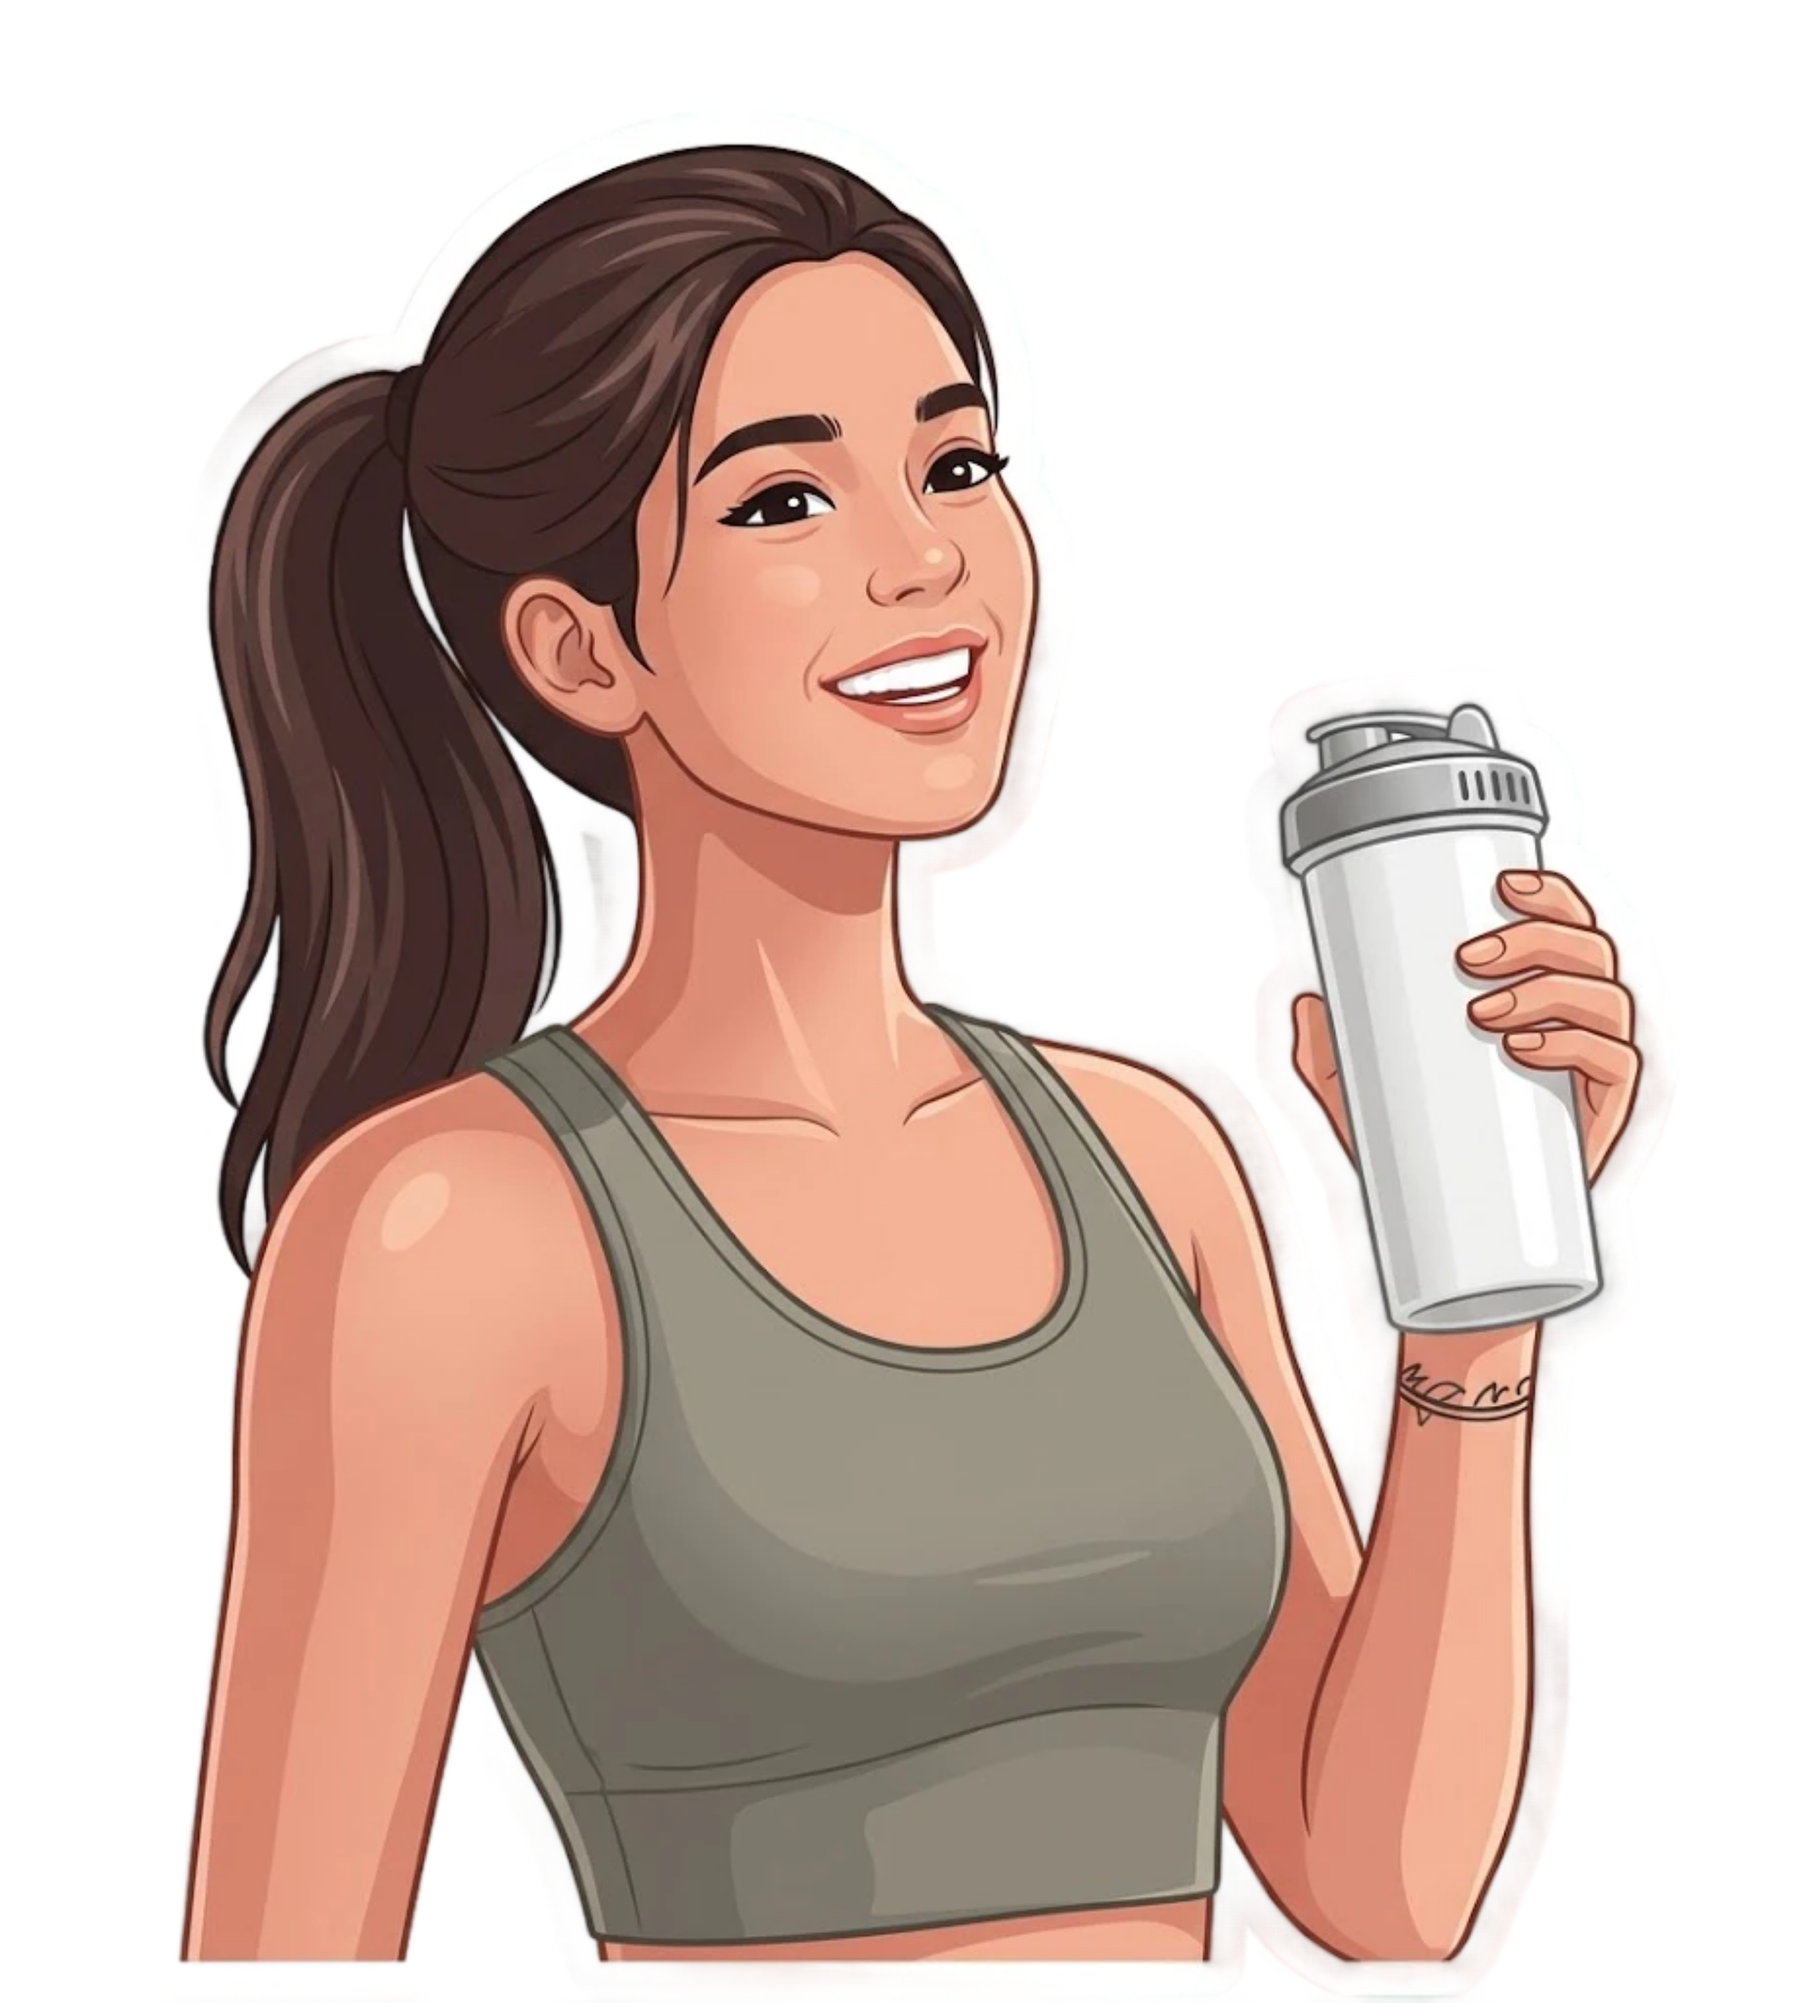
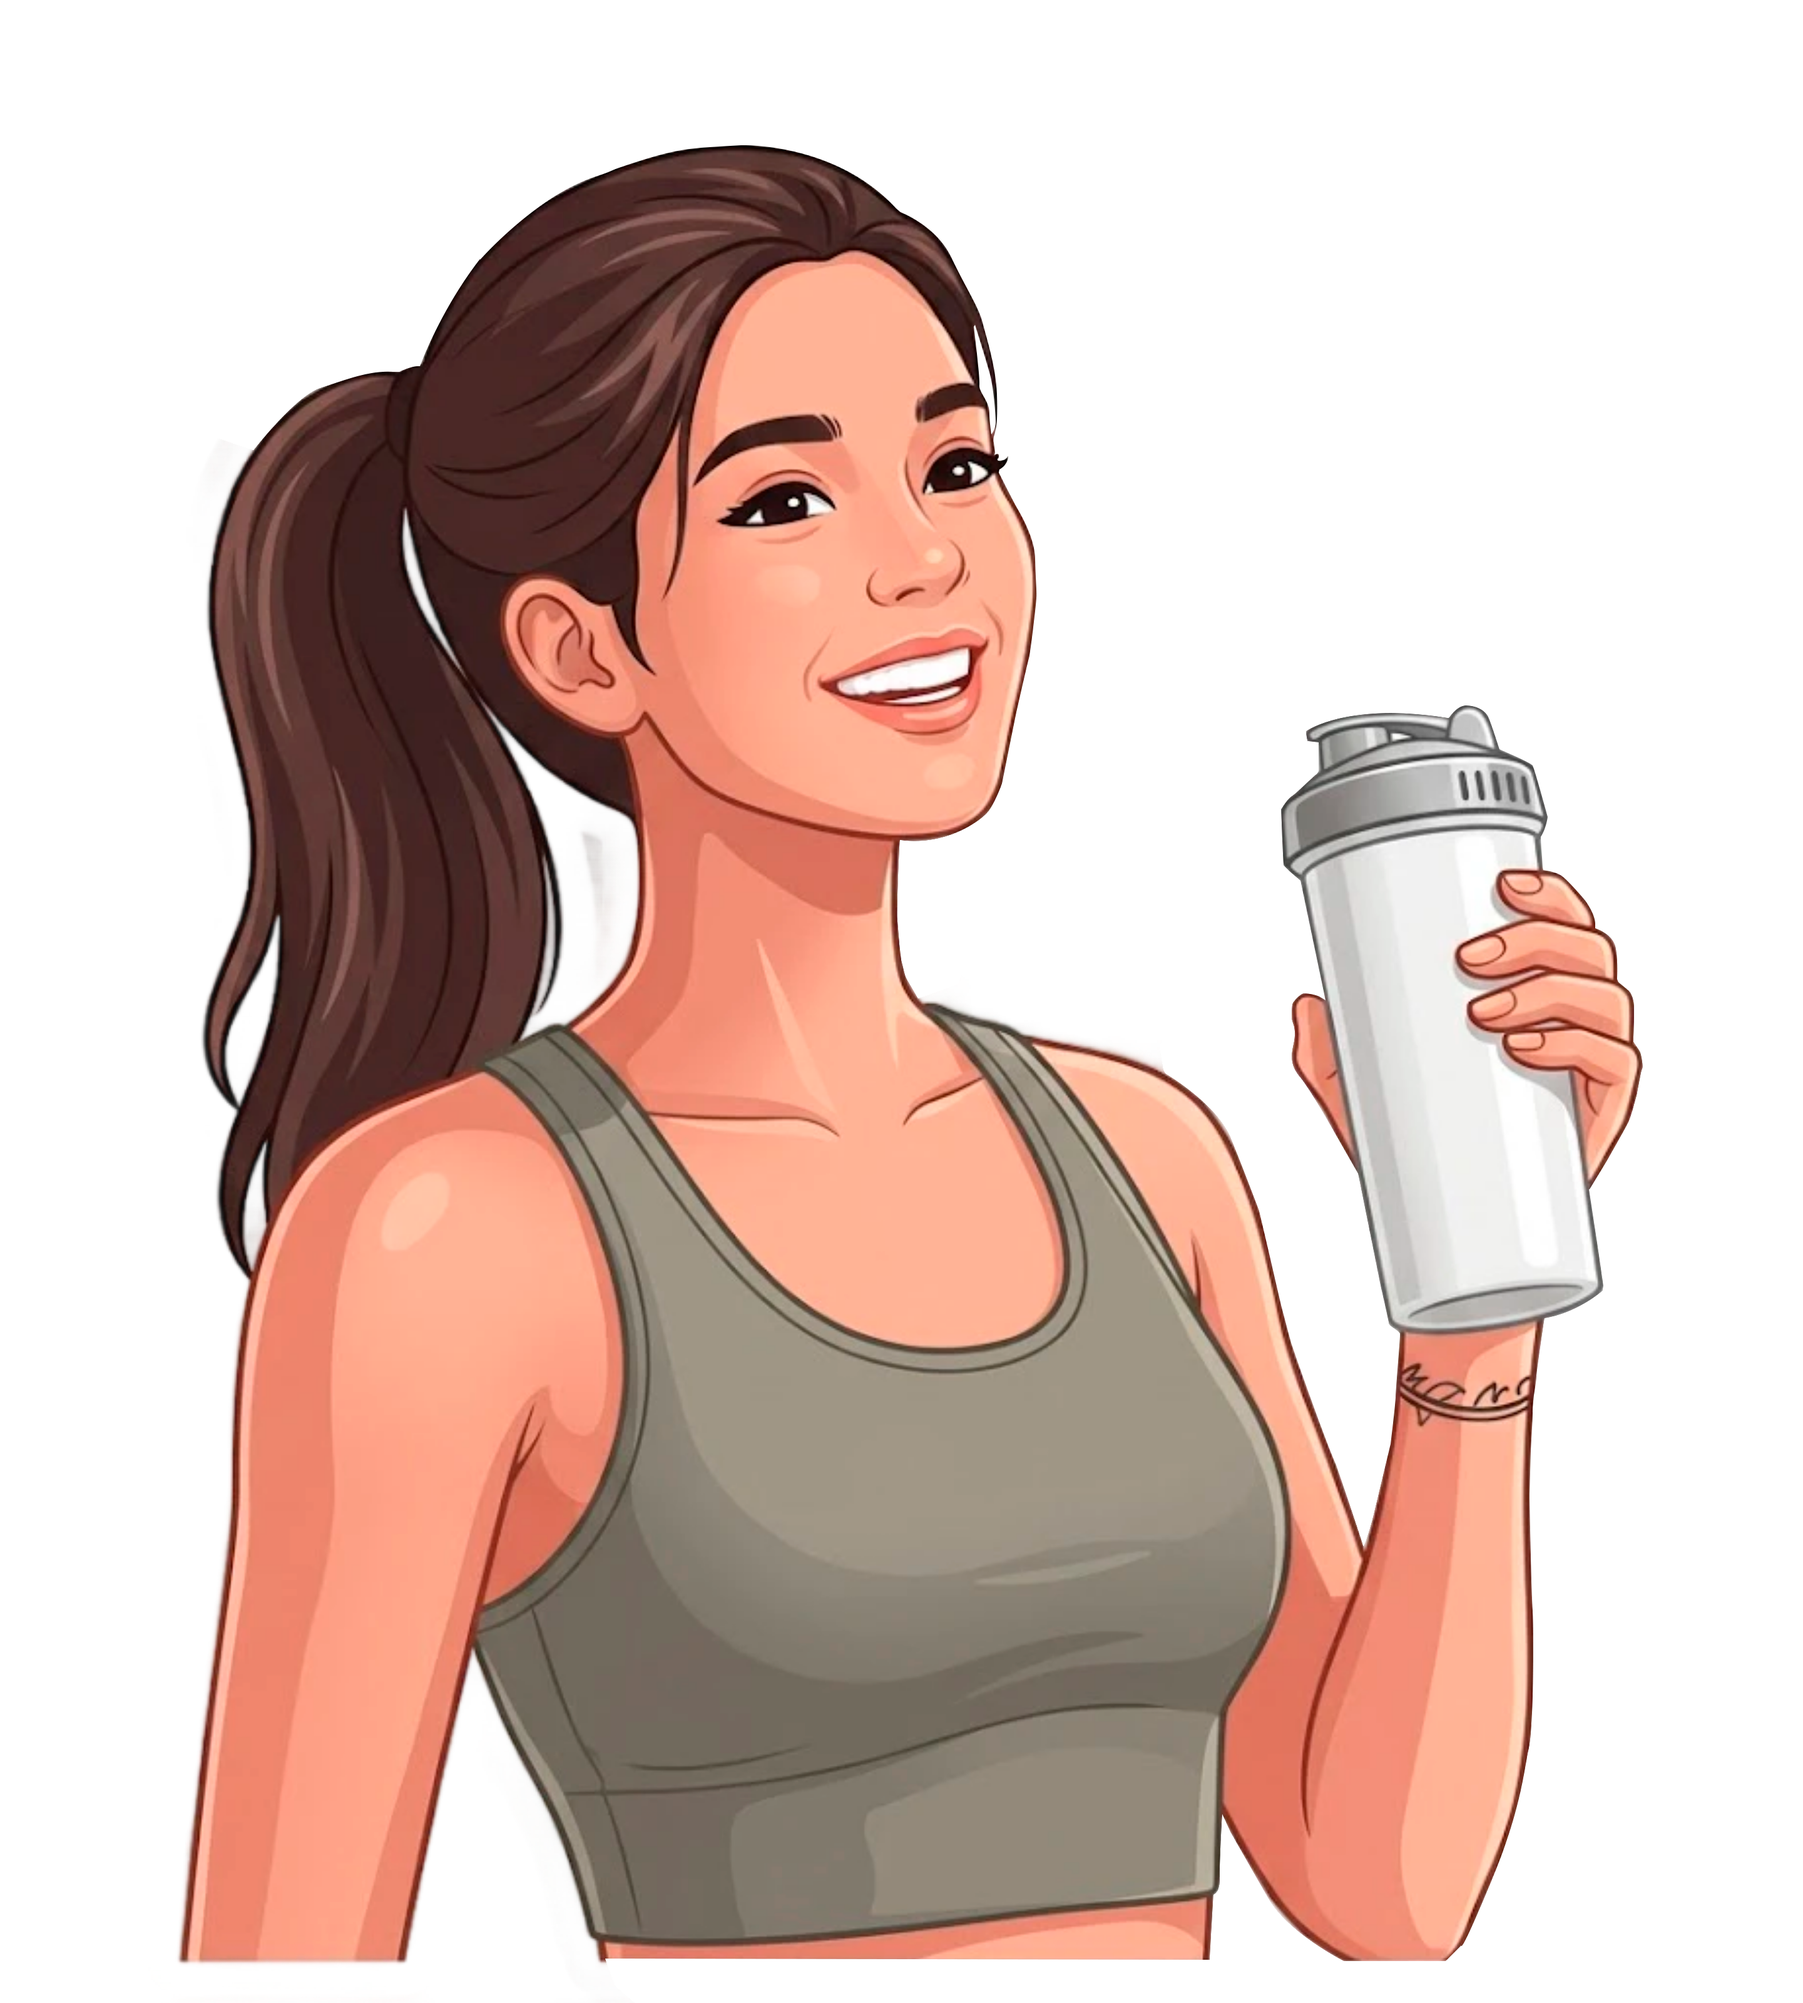
Dark mode changes.

diff --git a/index.html b/index.html
@@ -40,7 +40,7 @@
         </nav>
 
         <button class="download__btn download__btn--gpone" aria-label="Download">
-            <img class="download__btn-img" src="assets/images/play-store.svg" width="30" height="30" alt="Google Play icon">
+            <img class="download__btn-img" src="assets/images/play-store-white.svg" width="30" height="30" alt="Google Play icon">
             <p class="download__btn__description">Download on Google Play</p>
         </button>
 
@@ -64,7 +64,7 @@
 
             <div class="plan-hero__actions">
                 <a href="#" class="btn btn--google-play" aria-label="Download Systematico on Google Play">
-                    <img class="download__btn-img" src="assets/images/play-store.svg" width="42" height="42" alt="" aria-hidden="true">
+                    <img class="download__btn-img" src="assets/images/play-store-white.svg" width="42" height="42" alt="" aria-hidden="true">
                     <div class="btn__text-group">
                         <span class="btn__text-small">GET IT ON</span>
                         <span class="btn__text-large">Google Play</span>
@@ -426,7 +426,7 @@
             <p class="cta-banner__subtitle">Start planning smarter today.</p>
         </div>
 
-        <img class="cta-banner__graphic cta-banner__graphic--clock" src="assets/images/clock_image.jpg" width="192" height="180" alt="Clock image" aria-hidden="true">
+        <img class="cta-banner__graphic cta-banner__graphic--clock" src="assets/images/clock_image.png" width="192" height="180" alt="Clock image" aria-hidden="true">
         <img class="cta-banner__graphic cta-banner__graphic--stars" src="assets/images/stars.svg" width="123" height="123" alt="Stars image" aria-hidden="true">
 
         <a href="#" class="btn btn--google-play cta-banner__btn" aria-label="Download Systematico on Google Play">
@@ -444,7 +444,7 @@
     <footer class="footer" id="contact">
         
         <a href="index.html" class="footer__brand" aria-label="Systematico Home">
-            <img class="footer__logo" src="assets/images/logo.svg" width="60" height="60" alt="" aria-hidden="true">
+            <img class="footer__logo" src="assets/images/logo-white.svg" width="60" height="60" alt="" aria-hidden="true">
             <span class="footer__title">Systematico</span>
         </a>
 
